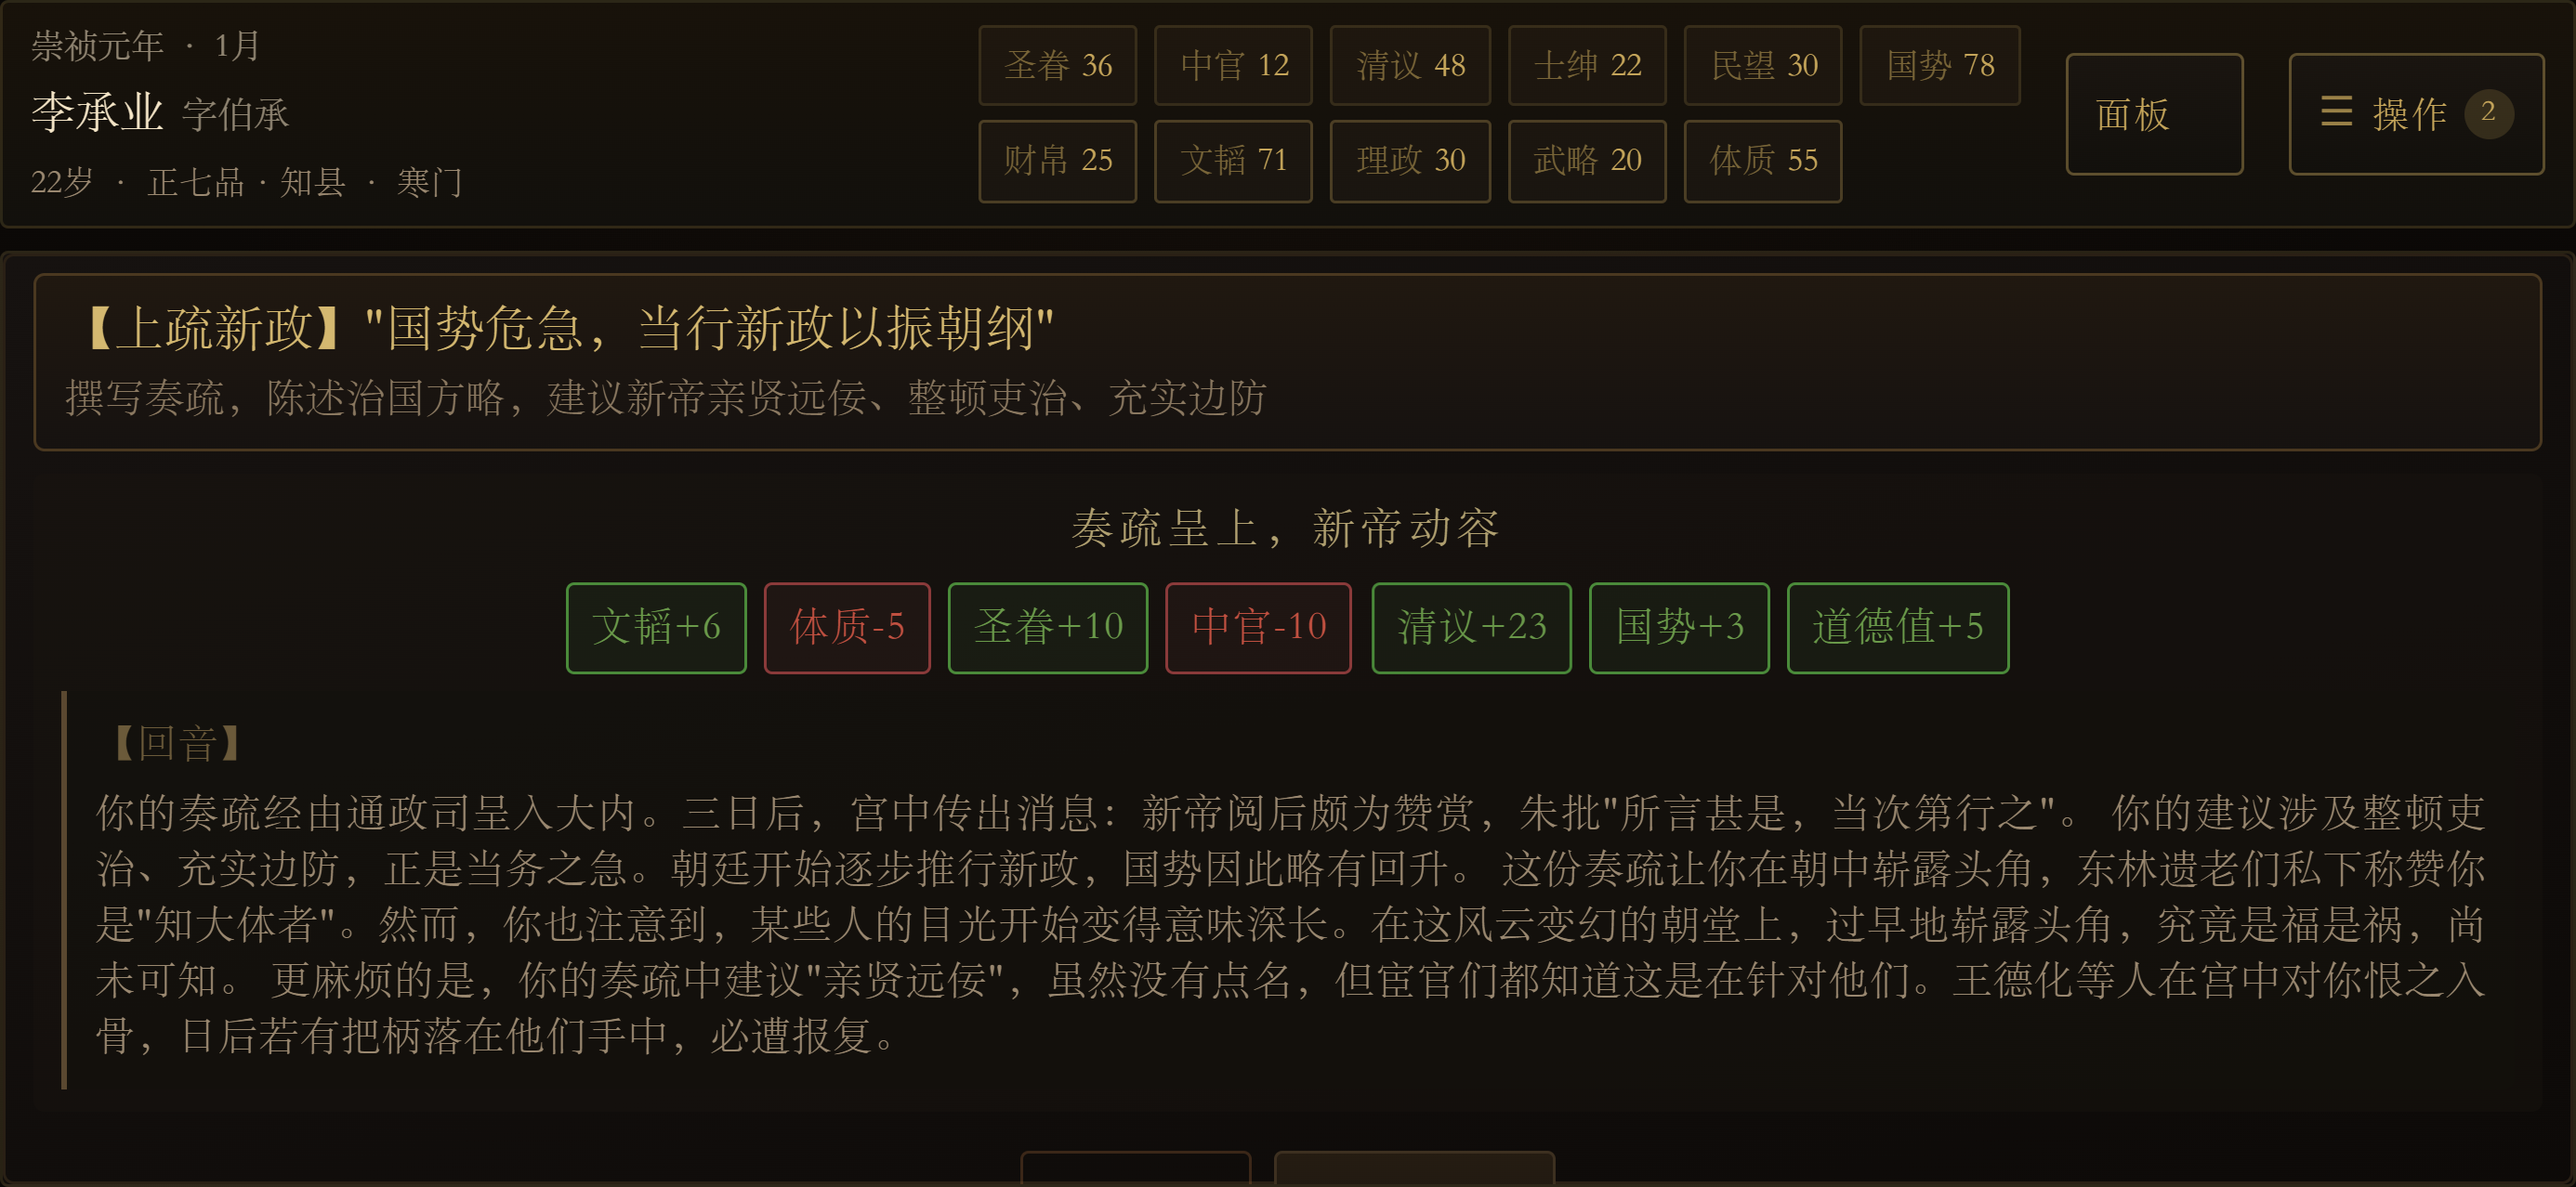
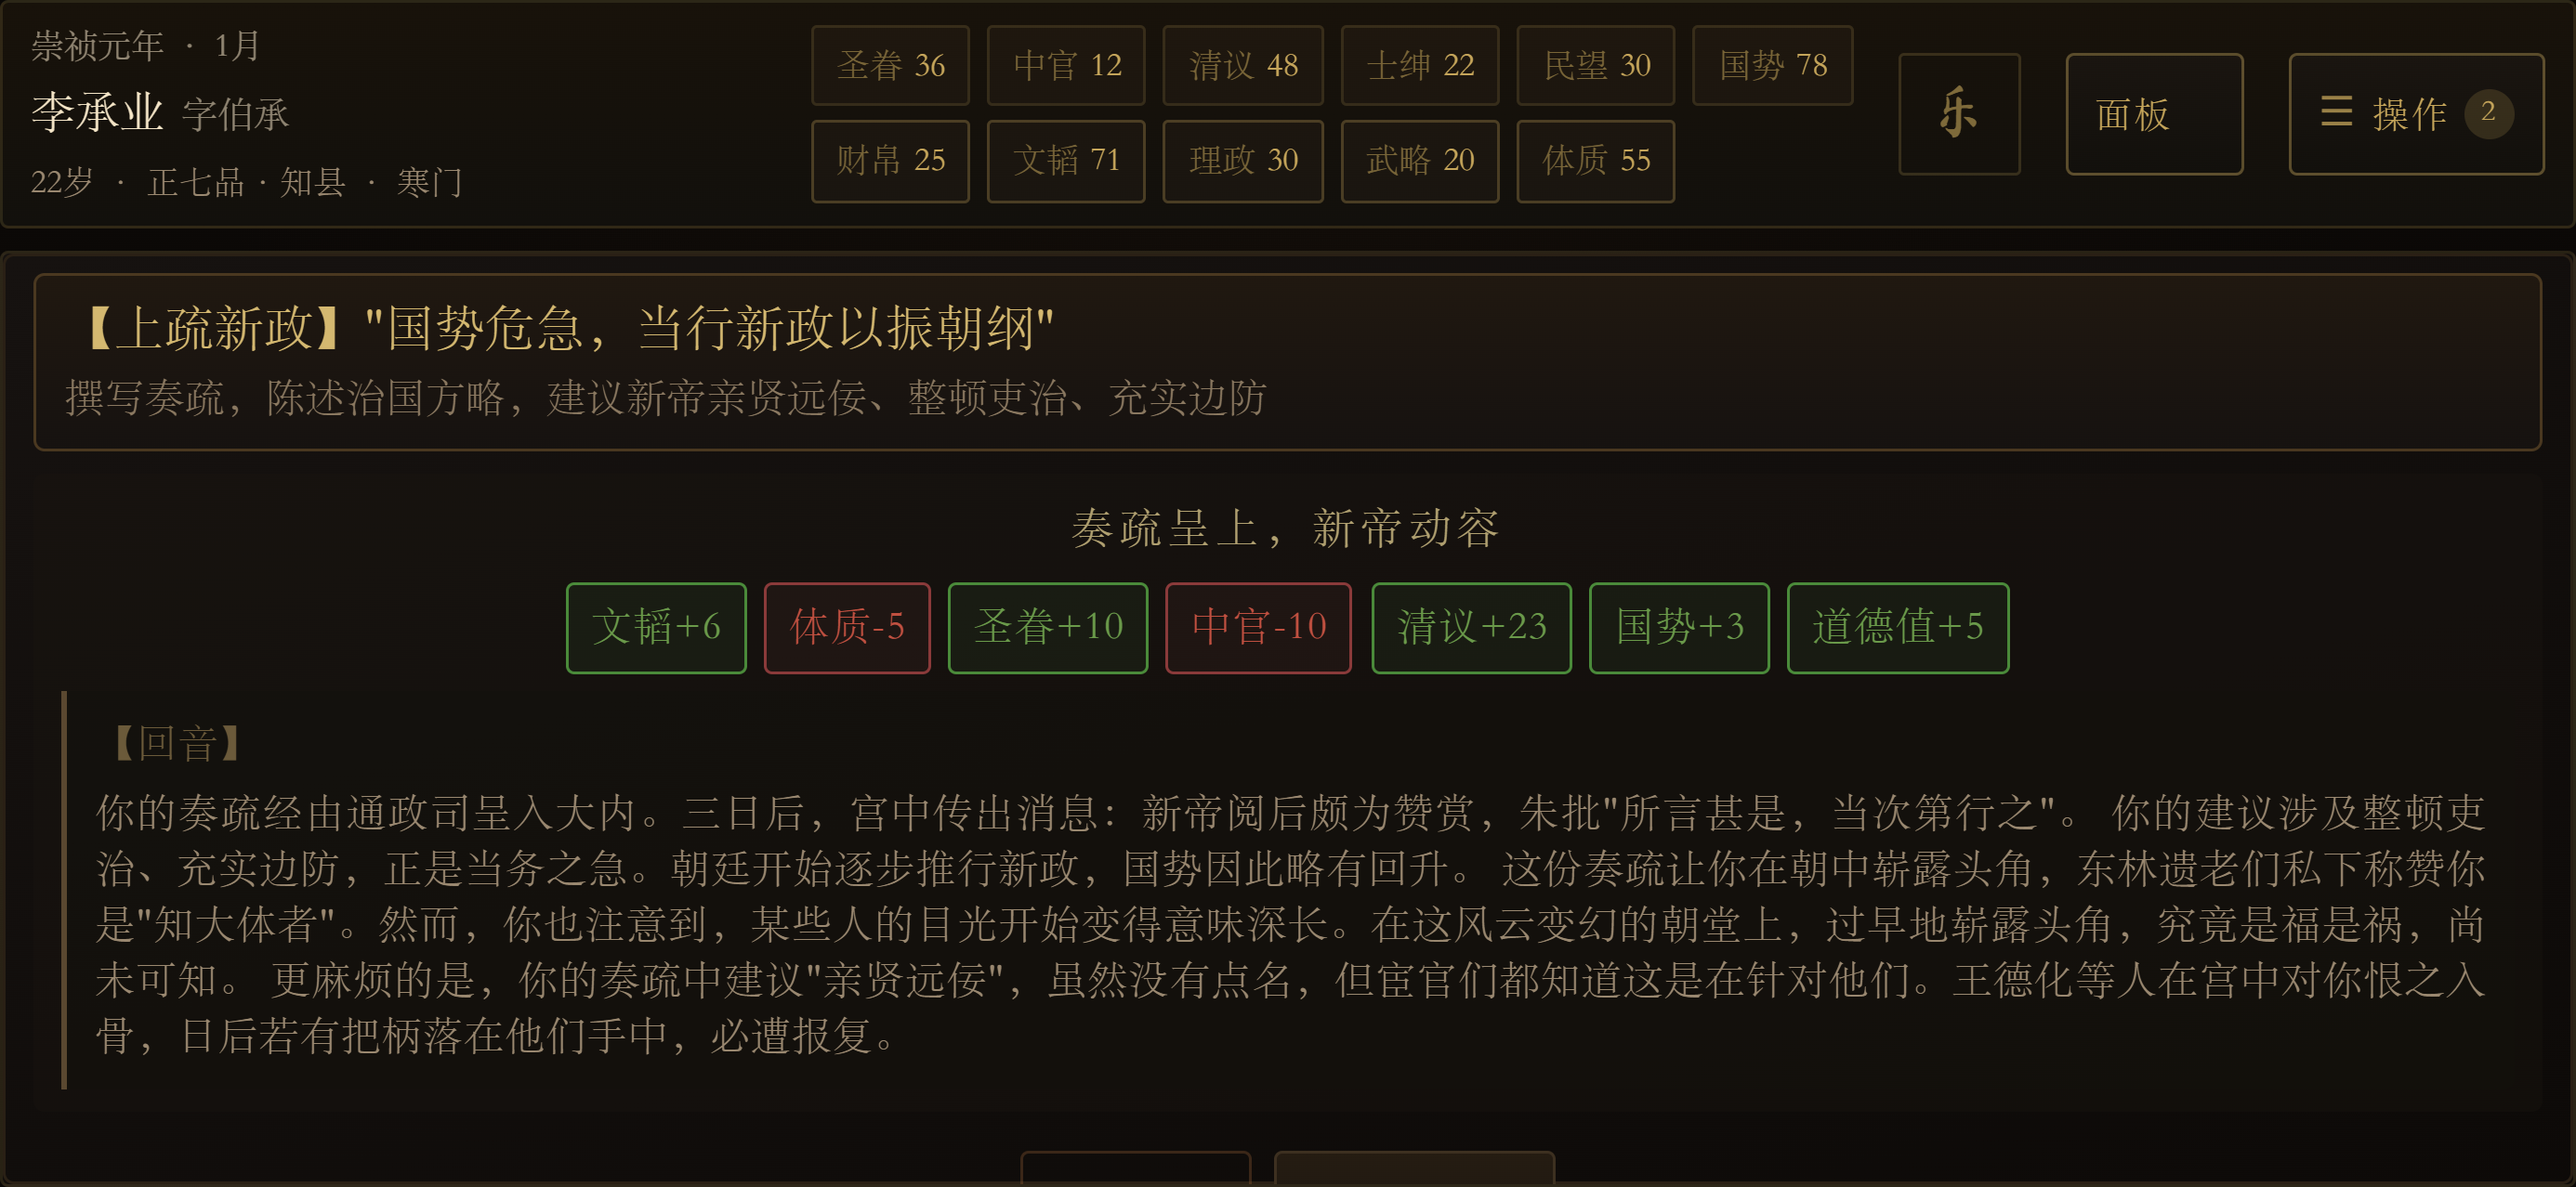
手机版骰子弹窗紧凑化 + 手机 Web BGM 默认开启与开关

Changed region(s): [[0.3102, 0.0305, 0.7756, 0.1526]]

diff --git a/src/mobile/mobile.css b/src/mobile/mobile.css
@@ -726,6 +726,20 @@ body.mobile-applied textarea {
   font-weight: 700;
 }
 
+/* 音乐开关：手机寸土寸金，只留 44px 图标位；标题屏与牌桌共用。 */
+.mobile-shell .bgm-toggle--inline {
+  flex: 0 0 44px;
+  width: 44px;
+  min-width: 44px;
+  min-height: 44px;
+  padding: 0;
+  justify-content: center;
+  font-size: 1rem;
+  letter-spacing: 0;
+}
+.mobile-shell .bgm-toggle--inline .bgm-label { display: none; }
+.mobile-shell .bgm-toggle--inline .bgm-icon { font-size: 1.1rem; }
+
 /* 人物面板：默认收起；补回桌面侧栏的财帛 / 文韬 / 理政 / 武略 / 体质与隐藏属性。 */
 .mobile-shell .mobile-panel__scrim {
   position: absolute;
@@ -1143,4 +1157,100 @@ body.mobile-applied textarea {
 
 .mobile-shell .mobile-bar-btn:disabled {
   opacity: 0.35;
+}
+
+/* ==========================================================================
+   骰子弹窗：portal 到 body，用 body.mobile-applied 作用域，桌面零改动。
+   手机横屏只有 366–426dp 高，桌面那套 32/40px 内边距 + 90px 骰子会把
+   中间内容顶成滚动区；这里压到一屏内，同时保留 44px 的投掷按钮。
+   ========================================================================== */
+body.mobile-applied .dice-modal-overlay {
+  padding: 6px;
+  align-items: center;
+}
+body.mobile-applied .dice-modal {
+  width: min(520px, calc(100vw - 12px));
+  max-width: 520px;
+  max-height: calc(100dvh - 12px);
+  padding: 8px 14px 10px;
+  border-radius: 3px;
+}
+body.mobile-applied .dice-modal-header {
+  margin-bottom: 2px;
+}
+body.mobile-applied .dice-modal-header h3 {
+  font-size: 0.98rem;
+  letter-spacing: 4px;
+  text-shadow: none;
+}
+body.mobile-applied .dice-modal-content {
+  gap: 4px;
+}
+body.mobile-applied .dice-info-simple {
+  gap: 3px;
+}
+body.mobile-applied .dice-condition-simple {
+  font-size: 11px;
+  line-height: 1.35;
+  letter-spacing: 1px;
+  text-align: center;
+}
+body.mobile-applied .difficulty-label {
+  font-size: 11px;
+  letter-spacing: 1px;
+}
+body.mobile-applied .difficulty-circle {
+  width: 8px;
+  height: 8px;
+}
+body.mobile-applied .dice-target {
+  font-size: 11px;
+  letter-spacing: 1px;
+}
+body.mobile-applied .target-char {
+  font-size: 1rem;
+  margin: 0 2px;
+}
+body.mobile-applied .attempt-info {
+  margin-top: 2px;
+  padding-top: 2px;
+  font-size: 10px;
+  line-height: 1.3;
+  justify-content: center;
+  text-align: center;
+}
+body.mobile-applied .dice-area {
+  margin: 2px 0;
+}
+body.mobile-applied .dice-simple-wrapper {
+  padding: 0;
+}
+body.mobile-applied .dice-box-simple {
+  width: 64px;
+  height: 64px;
+}
+body.mobile-applied .dice-char {
+  font-size: 1.9rem;
+}
+body.mobile-applied .dice-click-hint {
+  font-size: 10px;
+  letter-spacing: 1px;
+  margin-top: -2px;
+}
+body.mobile-applied .dice-result-text {
+  font-size: 12px;
+  letter-spacing: 3px;
+  padding: 2px 8px;
+  margin-top: 0;
+}
+body.mobile-applied .dice-modal-footer {
+  margin-top: 4px;
+}
+body.mobile-applied .dice-confirm-btn {
+  box-sizing: border-box;
+  height: 44px;
+  min-height: 44px;
+  padding: 0 32px;
+  font-size: 12px;
+  letter-spacing: 4px;
 }

diff --git a/src/components/BGMContext.tsx b/src/components/BGMContext.tsx
@@ -24,16 +24,19 @@ function bgmSrc() {
   return base.endsWith('/') ? `${base}bgm.mp3` : `${base}/bgm.mp3`
 }
 
-export function BGMProvider({ children }: { children: ReactNode }) {
+export function BGMProvider({ children, defaultOn = false }: { children: ReactNode; defaultOn?: boolean }) {
   const audioRef = useRef<HTMLAudioElement | null>(null)
 
-  // 默认关，避免浏览器 autoplay 策略导致用户迷惑（以为点不动）
+  // 默认关，避免浏览器 autoplay 策略导致用户迷惑（以为点不动）。
+  // 手机版传 defaultOn：首次进入就尝试起播，首次用户手势后重试；
+  // 玩家已有的显式开关选择仍然优先。
   const [on, setOn] = useState<boolean>(() => {
     try {
-      // 老用户保留上次选择；新用户默认关
-      return localStorage.getItem(BGM_KEY) === '1'
+      const stored = localStorage.getItem(BGM_KEY)
+      if (stored !== null) return stored === '1'
+      return defaultOn
     } catch {
-      return false
+      return defaultOn
     }
   })
   const [status, setStatus] = useState<BGMCtx['status']>('idle')

diff --git a/src/mobile/MobileTitle.tsx b/src/mobile/MobileTitle.tsx
@@ -8,6 +8,7 @@ import { useMemo } from 'react'
 import { getAllSaveSlots, getAutosavePreview } from '../types/save'
 import { DIFFICULTY_CONFIGS, type DifficultyLevel } from '../types/difficulty'
 import { APP_VERSION_LABEL } from '../utils/version'
+import { BGMInlineButton } from '../components/BGM'
 
 /** 难度展示顺序：简单 / 普通 / 困难，与桌面一致。 */
 const DIFFICULTY_ORDER: DifficultyLevel[] = ['easy', 'normal', 'hard']
@@ -72,6 +73,7 @@ export default function MobileTitle({
             读 取 存 档
           </button>
         )}
+        <BGMInlineButton />
       </div>
     </div>
   )

diff --git a/src/mobile/MobileBoard.tsx b/src/mobile/MobileBoard.tsx
@@ -22,6 +22,7 @@ import DeathEnding from '../components/DeathEnding'
 import SaveNotification from '../components/SaveNotification'
 import SaveSlotsModal from '../components/SaveSlotsModal'
 import ResignConfirmDialog from '../components/ResignConfirmDialog'
+import { BGMInlineButton } from '../components/BGM'
 
 export interface MobileBoardProps {
   origin: OriginType
@@ -188,6 +189,8 @@ export default function MobileBoard(props: MobileBoardProps) {
             ))}
           </div>
         </div>
+
+        <BGMInlineButton />
 
         <button
           type="button"

diff --git a/src/App.tsx b/src/App.tsx
@@ -238,7 +238,7 @@ function App() {
   // 桌面分支的 JSX / className / 导入顺序保持逐字等价，下面的 return 不再改动。
   if (detectMobileMode()) {
     return (
-      <BGMProvider>
+      <BGMProvider defaultOn>
         <StorageAlerts />
         <Suspense
           fallback={

diff --git a/docs/MOBILE_WEB.md b/docs/MOBILE_WEB.md
@@ -15,13 +15,14 @@
 | `src/mobile/detect.ts` | 入口检测，只读浏览器特征，无副作用 |
 | `src/mobile/MobileShell.tsx` | 横屏壳：竖屏遮罩、首次手势尝试全屏+`screen.orientation.lock('landscape')`（try/catch，失败给降级文案，不假装成功）、`body.mobile-applied` 作用域开关 |
 | `src/mobile/MobileApp.tsx` | 阶段机：标题 → 取名 → 出身 → 牌桌；存档/难度/成就口径复用既有工具 |
-| `src/mobile/MobileTitle.tsx` | 标题、开始、继续上次、难度三选 |
+| `src/mobile/MobileTitle.tsx` | 标题、开始、继续上次、难度三选、44px 音乐开关 |
 | `src/mobile/MobileNameSetup.tsx` | 姓/名/字/年岁同一排，籍贯 + 随机抽同排，两个按钮同排；不重复预览、返回键移到标题行 |
 | `src/mobile/MobileOriginSetup.tsx` | 出身卡网格；默认只露名称/官阶/「详情·选此」，背景、标签、玩法与五围默认收起，属性用紧凑值块 |
-| `src/mobile/MobileBoard.tsx` | 牌桌：顶部 HUD（六项朝堂状态 + 五项个人能力第二排 + 可开合人物面板）+ 中央事件区（**复用 `EventDisplay`**）+ 默认收起的底部操作条 + 结局/死亡/回顾宿主 |
-| `src/mobile/mobile.css` | 全部选择器限定在 `.mobile-shell` / `.mobile-board` / `body.mobile-applied` 下，无全局覆盖 |
-| `tests/mobile-web.mjs` | 入口四规则 + 牌桌最小可用性的浏览器冒烟（退出码即结论） |
+| `src/mobile/MobileBoard.tsx` | 牌桌：顶部 HUD（六项朝堂状态 + 五项个人能力第二排 + 44px 音乐开关 + 可开合人物面板）+ 中央事件区（**复用 `EventDisplay`**）+ 默认收起的底部操作条 + 结局/死亡/回顾宿主 |
+| `src/mobile/mobile.css` | 全部选择器限定在 `.mobile-shell` / `.mobile-board` / `body.mobile-applied` 下，无全局覆盖；含骰子弹窗手机作用域紧凑规则 |
+| `tests/mobile-web.mjs` | 入口四规则 + 牌桌最小可用性 + BGM 开关/资源可达的浏览器冒烟（退出码即结论） |
 | `tests/mobile-onboarding.mjs` | 标题/取名/出身三屏的几何断言 + 四张开局截图 |
+| `tests/mobile-dice.mjs` | 骰子弹窗在 844×390 / 924×426 的几何断言 + 截图 |
 
 ## 复用与边界
 
@@ -120,7 +121,22 @@
 `tests/mobile-web.mjs` 新增断言：HUD 文字匹配 `/^\d+岁/`；结算后点「继续」跨月再读 HUD，
 仍匹配 `/^\d+岁/`。
 
-## 强制横屏（2026-11-17）
+## 骰子弹窗紧凑 + 手机 BGM（2026-11-17）
+
+- **骰子弹窗**：它是 portal 到 `body` 的，桌面 32/40px 内边距 + 90px 骰子在
+  844×390 下会把内容顶成滚动区。手机作用域 `body.mobile-applied` 把面板宽度封在
+  520px、内边距压到 8/14px、骰子 64px、标题 0.98rem、说明 10–11px，底部「投掷」
+  固定 44px。844×390 实测：弹窗 top=56.8 / bottom=333.2 / 内容
+  `scrollHeight=clientHeight=178`，无需滚动；924×426 同样一屏。
+- **BGM 根因**：`BGMProvider` 早就包在手机分支里，但手机标题屏和牌桌都没有开关，
+  且默认关——等于没有入口。现在手机版 `BGMProvider defaultOn`，标题屏操作排与
+  牌桌 HUD 各放一枚 44px 音乐开关（乐 / 静），首次用户手势会重试 `play()`；
+  桌面仍保持原来的默认关。
+- `public/bgm.mp3` 实测 `HEAD 200`；`tests/mobile-web.mjs` 增加标题屏开关、
+  44px 触控、默认开、关/开切换、资源可达五类断言。
+- `tests/mobile-dice.mjs` 独立跑骰子几何，输出
+  `release/手机网页版-骰子-924x426.png`。
+
 
 - **PWA manifest**：`public/manifest.webmanifest` 的 `orientation` 已从 `any` 改为 `landscape`；
   安装为 PWA 后从桌面启动，系统会按 manifest 以横屏打开。
@@ -146,6 +162,10 @@
 - **开局三屏（924×426）**：标题/取名/出身三屏均 `scrollHeight=clientHeight`，取名四字段同一排、
   无重复预览；出身详情默认 0 展开、无属性横条、收起态最高 85px；展开后五围齐全；点「选此出身」进牌桌；
 - 可点抉择并出结算；
+- 手机标题屏有 44×50.8px 音乐开关，默认开；牌桌 HUD 有 44×44px 音乐开关；
+  `public/bgm.mp3` `HEAD 200`；开关关/开后 `localStorage` 正确写 `0/1`；
+- 骰子弹窗 844×390：top=56.8、bottom=333.2、内容无需滚动、投掷按钮 44px；
+  924×426：top=74.8、bottom=351.2、内容无需滚动、投掷按钮 44px；
 - 390×844 竖屏：只出"请旋转手机"遮罩，不渲染牌桌交互；
 - `?mobile=1` + 1440×900：仍渲染手机版（强制预览生效）；无参数 + 1440×900：仍走桌面原版；
 - 全程无 `console.error` / `pageerror`。
@@ -153,7 +173,6 @@
 ## 后续可迭代（不是缺陷隐藏）
 
 - 三档横屏像素级适配（932×430、740×360）；
-- 骰子弹窗与各 portal 弹窗在窄高屏的观感；
 - 视觉纹理与卡面装饰继续打磨。
 
 ## 运行
@@ -163,4 +182,5 @@ node .\node_modules\vite\bin\vite.js build
 node .\node_modules\vite\bin\vite.js preview --port 4180
 $env:BASE_URL="http://localhost:4180/"; node tests\mobile-web.mjs
 $env:BASE_URL="http://localhost:4180/"; node tests\mobile-onboarding.mjs
+$env:BASE_URL="http://localhost:4180/"; node tests\mobile-dice.mjs
 ```
